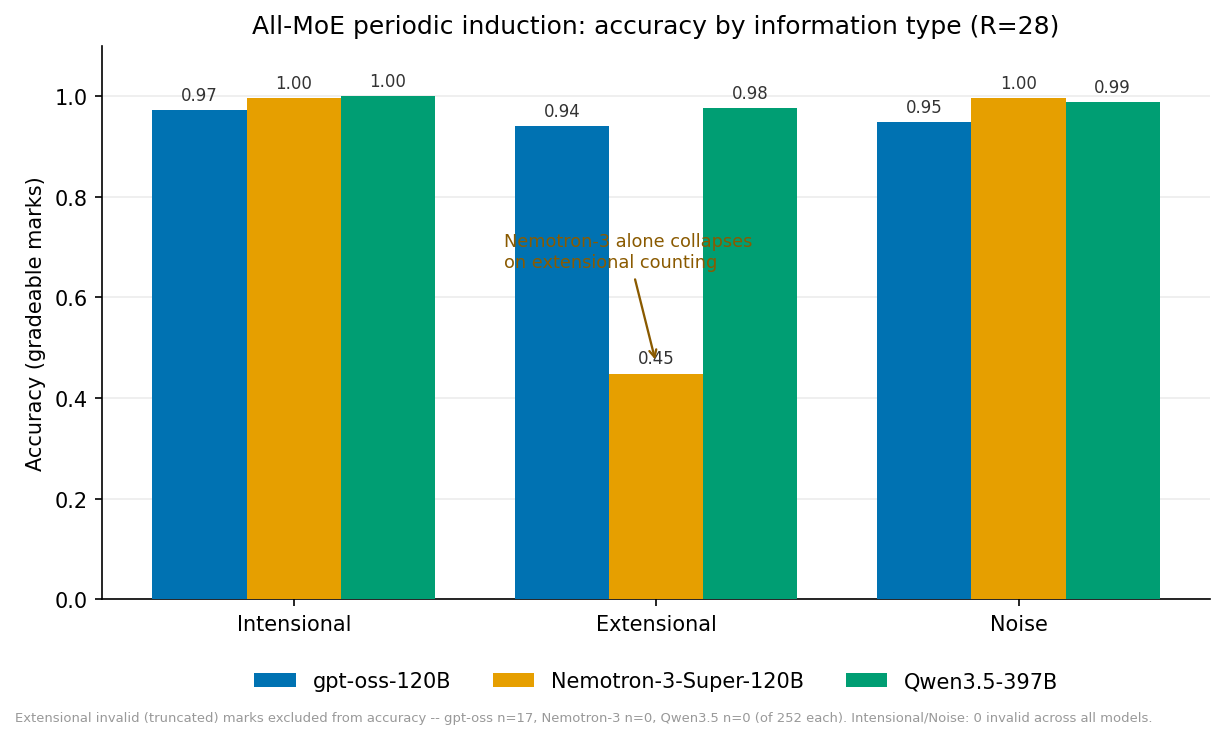
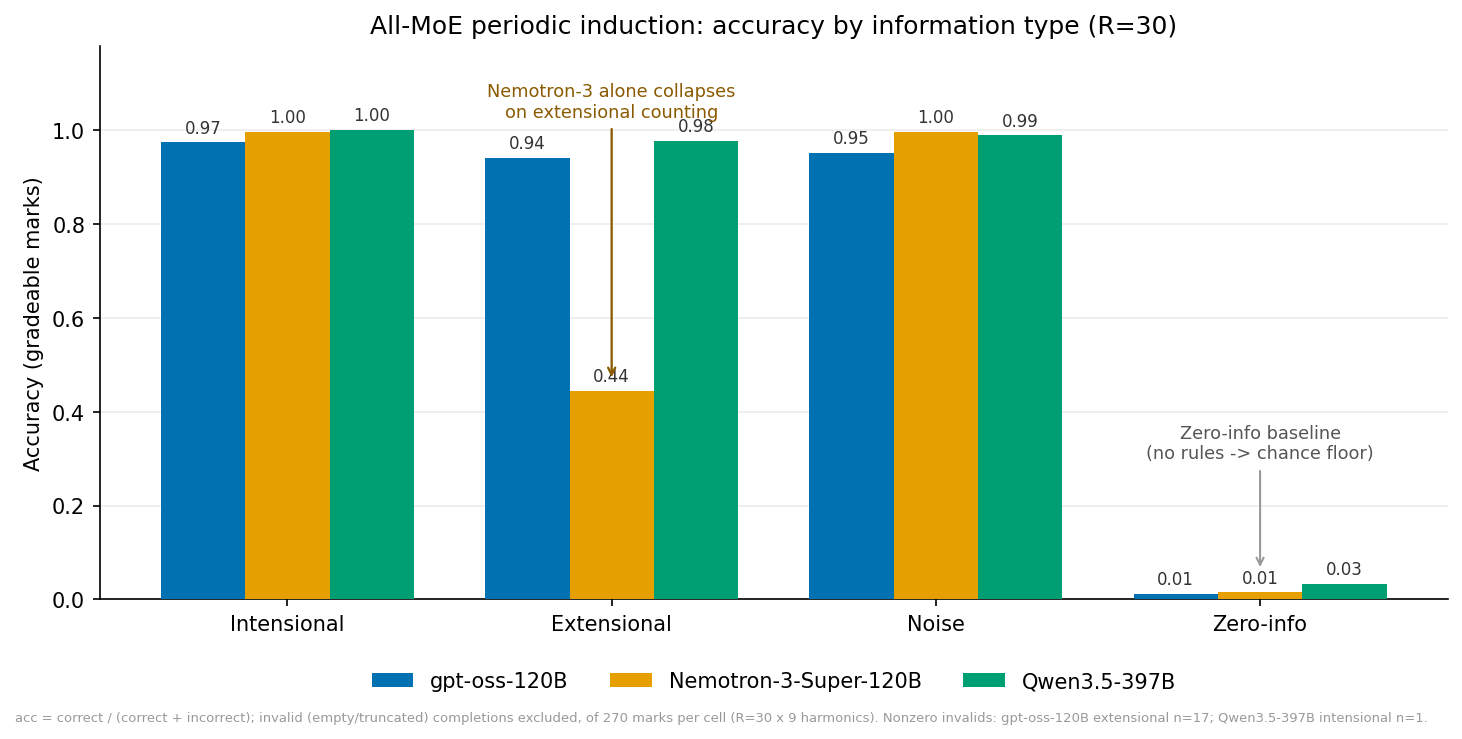
periodic_moe: add zero-info baseline as 4th condition, R=30
Adds a zero-information baseline (empty context -> chance floor) as the
fourth "amount of positive information" condition alongside intensional /
extensional / noise-padded, and re-runs the all-MoE induction study at
R=30 across all four.

- smolbench/induction/periodic.py: get_periodic_zero_info_numeric_quiz()
  returns one Quiz with an empty positive_info context. Non-breaking: the
  existing intens/extens/noise quizzes come from the same unchanged
  get_periodic_numeric_quiz call, so prior replicates resume-skip.
- run_pilot.py: INFO_TYPES gains "zero"; make_quizzes builds all four.
- figures/accuracy_bars.py: 4-group bars, R=30 title, zero-baseline
  annotation, data-driven invalid footnote.
- power_analysis.py: INFOS/N_TESTS/alpha recomputed for the 30-contrast
  family (was 18); the zero contrasts stay in the Bonferroni family.

Result (acc_valid, R=30): zero-info lands at the floor for all three
models (gpt-oss 0.011 / Nemotron-3 0.015 / Qwen3.5 0.033); the
Nemotron-3 extensional collapse holds (0.444) while gpt-oss (0.941) and
Qwen3.5 (0.978) hold. Power: max R at 80% = 14 across all difference
contrasts, omnibus model x info interaction power 1.0 -> R=30 is
well-powered (only the tightest +/-0.10 equivalence bound on one near-tie
wants R=31).

Claude-Session: https://claude.ai/code/session_01VhRPE7hWZiSRfKQsGnAgFe

diff --git a/notebooks/periodic_moe/figures/accuracy_bars.py b/notebooks/periodic_moe/figures/accuracy_bars.py
@@ -2,11 +2,14 @@
 
 Reads ``notebooks/periodic_moe/results/{model}_{info}/rep_*.yaml`` and plots
 accuracy over GRADEABLE marks (``acc_valid = correct / (correct + incorrect)``)
-for the three MoE models x three information types at R=28. Invalid marks
-(empty/truncated completions -- the reasoning models over-run their token
-budget on the ~21k-token EXTENSIONAL listing) are EXCLUDED, not counted as
-failures; the excluded count is annotated. The story: on extensional counting
-Nemotron-3 collapses while gpt-oss and Qwen3.5 hold.
+for the three MoE models x FOUR information types at R=30: the three
+positive-information amounts (intensional rules / extensional full listing /
+noise-padded intensional) plus a ZERO-info baseline (empty context -> chance
+floor). Invalid marks (empty/truncated completions -- the reasoning models
+over-run their token budget on the ~21k-token EXTENSIONAL listing) are
+EXCLUDED, not counted as failures; the excluded cells are annotated. The story:
+on extensional counting Nemotron-3 collapses while gpt-oss and Qwen3.5 hold,
+and with no rules at all every model drops to the floor.
 
 Colors: Okabe-Ito CVD-safe categorical palette, assigned to models in a FIXED
 order (never cycled).
@@ -30,7 +33,12 @@ MODELS = [
     ("nemotron3", "Nemotron-3-Super-120B", "#E69F00"),
     ("qwen35", "Qwen3.5-397B", "#009E73"),
 ]
-INFOS = [("intens", "Intensional"), ("extens", "Extensional"), ("noise_intens", "Noise")]
+INFOS = [
+    ("intens", "Intensional"),
+    ("extens", "Extensional"),
+    ("noise_intens", "Noise"),
+    ("zero", "Zero-info"),  # empty-context baseline -> chance floor
+]
 
 
 def stats(tag: str, info: str) -> tuple[float, int]:
@@ -50,7 +58,7 @@ def stats(tag: str, info: str) -> tuple[float, int]:
 def main() -> None:
     data = {tag: [stats(tag, info) for info, _ in INFOS] for tag, _, _ in MODELS}
 
-    fig, ax = plt.subplots(figsize=(8.2, 4.9))
+    fig, ax = plt.subplots(figsize=(9.8, 4.9))
     x = np.arange(len(INFOS))
     w = 0.26
     for k, (tag, label, color) in enumerate(MODELS):
@@ -62,27 +70,45 @@ def main() -> None:
 
     ax.set_xticks(x)
     ax.set_xticklabels([lbl for _, lbl in INFOS])
-    ax.set_ylim(0, 1.10)
+    ax.set_ylim(0, 1.18)
     ax.set_ylabel("Accuracy (gradeable marks)")
-    ax.set_title("All-MoE periodic induction: accuracy by information type (R=28)")
+    ax.set_title("All-MoE periodic induction: accuracy by information type (R=30)")
     ax.grid(axis="y", color="#ececec", zorder=0)
     ax.spines[["top", "right"]].set_visible(False)
     ax.legend(frameon=False, ncol=3, loc="lower center", bbox_to_anchor=(0.5, -0.20))
 
-    # Call out the one interesting cell.
+    # Call out the one interesting positive-info cell.
     je = [i for i, (k, _) in enumerate(INFOS) if k == "extens"][0]
+    # Placed in the clear column above the SHORT Nemotron bar (its tall gpt-oss
+    # and Qwen neighbours leave no mid-height gap), lifted above their tops.
     ax.annotate(
         "Nemotron-3 alone collapses\non extensional counting",
         xy=(x[je], data["nemotron3"][je][0] + 0.02),
-        xytext=(x[je] - 0.42, 0.66), fontsize=8.5, color="#8a5a00",
+        xytext=(x[je], 1.02), fontsize=8.5, color="#8a5a00",
+        ha="center", va="bottom",
         arrowprops=dict(arrowstyle="->", color="#8a5a00", lw=1.1),
     )
 
-    inv = {tag: data[tag][je][1] for tag, _, _ in MODELS}
+    # Mark the zero-info floor: with no rules given, all three sit near chance.
+    jz = [i for i, (k, _) in enumerate(INFOS) if k == "zero"][0]
+    ax.annotate(
+        "Zero-info baseline\n(no rules -> chance floor)",
+        xy=(x[jz], 0.06), xytext=(x[jz], 0.30), fontsize=8.5, color="#555",
+        ha="center", arrowprops=dict(arrowstyle="->", color="#999", lw=1.0),
+    )
+
+    # Invalid (empty/truncated) marks are EXCLUDED from accuracy, never counted
+    # as failures; list every nonzero cell so the exclusion stays auditable.
+    reps = 30
+    nz = [f"{mlabel} {ilabel.lower()} n={data[tag][j][1]}"
+          for tag, mlabel, _ in MODELS
+          for j, (_, ilabel) in enumerate(INFOS) if data[tag][j][1]]
     fig.text(0.01, 0.005,
-             f"Extensional invalid (truncated) marks excluded from accuracy -- "
-             f"gpt-oss n={inv['gptoss']}, Nemotron-3 n={inv['nemotron3']}, Qwen3.5 n={inv['qwen35']} "
-             f"(of 252 each). Intensional/Noise: 0 invalid across all models.",
+             f"acc = correct / (correct + incorrect); invalid (empty/truncated) "
+             f"completions excluded, of {reps * 9} marks per cell "
+             f"(R={reps} x 9 harmonics). "
+             + ("Nonzero invalids: " + "; ".join(nz) + "."
+                if nz else "No invalid marks in any cell."),
              fontsize=6.3, color="#999")
     fig.tight_layout()
     fig.savefig(OUT, dpi=150, bbox_inches="tight")

diff --git a/notebooks/periodic_moe/power_analysis.py b/notebooks/periodic_moe/power_analysis.py
@@ -14,8 +14,13 @@ preliminary results:
 
   1. between the three MoE models (qwen35 / nemotron3 / gptoss) within each
      information type, and
-  2. between information types (intens / extens / noise_intens) within each
-     model.
+  2. between information types (intens / extens / noise_intens / zero) within
+     each model.
+
+The zero-info condition (empty context) is a chance-floor baseline; its
+contrasts against the positive-info types are huge-effect and powered at R=1,
+but it is kept in the same Bonferroni family (30 planned tests, not 18) so the
+multiplicity correction stays honest.
 
 Design notes
 ------------
@@ -72,9 +77,6 @@ from itertools import combinations
 
 from _power_common import (
     ALPHA,
-    ALPHA_CORRECTED,
-    INFOS,
-    N_TESTS,
     POWER_TARGETS,
     SEED,
     fmt_r,
@@ -82,22 +84,39 @@ from _power_common import (
 )
 
 # This all-MoE study reuses the periodic induction task verbatim (identical
-# quizzes, harmonic strata, and stratified-CMH statistics), so ONLY the model
-# set differs from notebooks/periodic. MODELS and build_contrasts are defined
-# locally rather than imported from _power_common (which pins the shared
-# decode/cot/moe archetypes); every downstream function reads the module-global
-# MODELS, so the sizing, omnibus, and loaders all pick these up. The contrast
-# family is unchanged in SHAPE (3 models x 3 infos -> 9 + 9), so N_TESTS still
-# imports as 18.
+# quizzes, harmonic strata, and stratified-CMH statistics), so only the model
+# set and the addition of a fourth information condition differ from
+# notebooks/periodic. MODELS, INFOS, and build_contrasts are defined locally
+# rather than imported from _power_common (which pins the shared decode/cot/moe
+# archetypes AND the three positive-info types); every downstream function reads
+# the module-global MODELS/INFOS, so sizing, omnibus, and loaders all pick these
+# up.
 MODELS = ("qwen35", "nemotron3", "gptoss")
+
+# Four conditions: the three positive-information amounts plus a ZERO-info
+# baseline (empty context -> chance floor). Overriding INFOS here (rather than
+# importing the shared 3-tuple) grows the planned pairwise family from 18 to 30
+# contrasts -- 3 model-pairs x 4 infos = 12 model-within-info, plus C(4,2)=6
+# info-pairs x 3 models = 18 info-within-model -- so N_TESTS and the
+# Bonferroni-corrected alpha are recomputed locally to match. Defined BEFORE the
+# functions below so their `alpha=ALPHA_CORRECTED` default args bind to THIS
+# corrected value, not the shared 3-info one (main() asserts build_contrasts()
+# has exactly N_TESTS entries as a guard against drift).
+INFOS = ("intens", "extens", "noise_intens", "zero")
+N_TESTS = (
+    len(INFOS) * len(list(combinations(MODELS, 2)))   # model-within-info
+    + len(MODELS) * len(list(combinations(INFOS, 2)))  # info-within-model
+)  # = 12 + 18 = 30
+ALPHA_CORRECTED = ALPHA / N_TESTS
 
 
 def build_contrasts() -> list[tuple[str, tuple[str, str], tuple[str, str]]]:
-    """The 18 planned pairwise contrasts: 9 model-within-info + 9 info-within-model.
+    """The 30 planned pairwise contrasts: 12 model-within-info + 18 info-within-model.
 
     Structurally identical to _power_common.build_contrasts, but over this
-    study's MoE model set (order: 9 model contrasts grouped by info in INFOS
-    order, then 9 info contrasts grouped by model in MODELS order).
+    study's MoE model set AND four info conditions (order: model contrasts
+    grouped by info in INFOS order, then info contrasts grouped by model in
+    MODELS order).
     """
     contrasts = []
     for info in INFOS:
@@ -357,6 +376,7 @@ def main() -> None:
     # chromatic's build_contrasts -- structural identity verified when this
     # module was introduced).
     contrasts = build_contrasts()
+    assert len(contrasts) == N_TESTS, (len(contrasts), N_TESTS)
 
     header = (
         f"{'contrast':38s} {'rates':13s} {'R(80%)':>7s} {'R(90%)':>7s} "

diff --git a/notebooks/periodic_moe/run_pilot.py b/notebooks/periodic_moe/run_pilot.py
@@ -45,6 +45,7 @@ from smolbench.induction.periodic import (  # noqa: E402  (env first; see notebo
     PeriodicConfig,
     Prompter,
     get_periodic_numeric_quiz,
+    get_periodic_zero_info_numeric_quiz,
     numeric_count_query_gen,
 )
 from smolbench.induction.experiment import InductionExperiment  # noqa: E402
@@ -72,36 +73,32 @@ template = string.Template(
 )
 
 BASE_SEED: int = 1776
-INFO_TYPES: tuple[str, ...] = ("intens", "extens", "noise_intens")
+# 4 conditions = 3 amounts of positive information (intensional rules /
+# extensional full listing / noise-padded intensional, a length control) + a
+# ZERO-info baseline (empty context -> chance floor). Adding "zero" is
+# non-breaking for the existing intens/extens/noise replicates: those three come
+# from the same get_periodic_numeric_quiz call as before, and the zero quiz is a
+# separate deterministic call, so rep_1776..1803 resume-skip unchanged.
+INFO_TYPES: tuple[str, ...] = ("intens", "extens", "noise_intens", "zero")
 
 
 def make_quizzes(seed: int) -> dict[str, tuple]:
-    """Generates one replicate's three info-type quizzes, keyed by info type."""
-    return dict(
-        zip(
-            INFO_TYPES,
-            get_periodic_numeric_quiz(
-                PeriodicConfig(
-                    n=9,
-                    labels=9,
-                    seed=seed,
-                ),
-                Prompter(
-                    template,
-                    {},
-                    numeric_count_query_gen,
-                ),
-            ),
-        )
-    )
+    """Generates one replicate's four info-type quizzes, keyed by info type."""
+    cfg = PeriodicConfig(n=9, labels=9, seed=seed)
+    prompter = Prompter(template, {}, numeric_count_query_gen)
+    intens, extens, noise_intens = get_periodic_numeric_quiz(cfg, prompter)
+    zero = get_periodic_zero_info_numeric_quiz(cfg, prompter)
+    return {"intens": intens, "extens": extens, "noise_intens": noise_intens, "zero": zero}
 
 
 EXPERIMENT = InductionExperiment(
     notebook_dir="periodic_moe",
     archetype_tags={MODEL_QWEN: "qwen35", MODEL_NEMOTRON: "nemotron3", MODEL_GPTOSS: "gptoss"},
     make_quizzes=make_quizzes,
-    # 1 = pilot (seed 1776 only). Set MOE_N_REPLICATES=28 for the full run:
-    # replicates resume-skip, so the full run extends the pilot (1776..1803).
+    info_types=INFO_TYPES,  # 4 conditions incl. the zero-info baseline
+    # 1 = pilot (seed 1776 only). Set MOE_N_REPLICATES=30 for the full run:
+    # replicates resume-skip, so it extends the existing intens/extens/noise
+    # 1776..1803, adds seeds 1804/1805, and fills the new zero-info condition.
     n_replicates=int(os.environ.get("MOE_N_REPLICATES", "1")),
     base_seed=BASE_SEED,
     state_file=".ec2_state_periodic_moe.json",

diff --git a/smolbench/induction/periodic.py b/smolbench/induction/periodic.py
@@ -287,6 +287,35 @@ def get_periodic_numeric_quiz(
     return quizzes_from_prompts(get_periodic_prompts(config, prompter), Numeric)
 
 
+def get_periodic_zero_info_numeric_quiz(
+    config: PeriodicConfig,
+    prompter: Prompter,
+) -> Quiz:
+    """Zero-information baseline: the same numeric queries/answers as
+    ``get_periodic_numeric_quiz``, but rendered with an EMPTY ``positive_info``
+    context -- the model gets no rules and no listing, so the count is not
+    computable from the prompt (a chance floor at the bottom of the
+    amount-of-positive-information gradient).
+
+    Standalone: returns ONE Quiz and does not touch the 3-condition
+    ``get_periodic_numeric_quiz`` or the shared
+    ``(intens, extens, noise_intens)`` tuple shape, so existing callers and
+    the chromatic benchmark are unaffected.
+    """
+    period_to_label, pos_to_compound = generate_sequence(config)
+    return tuple(
+        Numeric(
+            prompt=prompter.template.safe_substitute(
+                build_substitution(query, prompter, "")
+            ),
+            answer=answer,
+        )
+        for query, answer in prompter.query_gen(
+            period_to_label, pos_to_compound, config.seed
+        )
+    )
+
+
 # ---------------------------------------------------------------------------
 # Built-in query generators
 # ---------------------------------------------------------------------------
